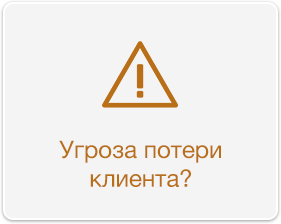
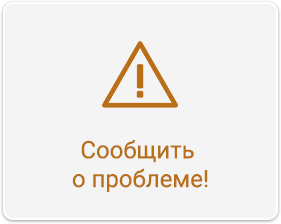
SUPS-369 SUPS-371 crop comment in task, change images for buttons

Changed region(s): [[0.1993, 0.625, 0.7972, 0.875]]

diff --git a/device/app/Script/Events/CheckList.js b/device/app/Script/Events/CheckList.js
@@ -1,3 +1,14 @@
+function OnLoad() {
+    Dialog.Debug(CanForward($.param1));
+    CanForward($.param1);
+}
+
+function DoNext(param) {
+  if (CanForward($.param1)){
+    Workflow.Action("Total",param);
+  }
+}
+
 function GetCheckList(event){
     var q = new Query("SELECT CA. Description AS Desc, " +
                       "ETDP.Name AS AType, " +
@@ -26,8 +37,12 @@ function CanForward(event){
   var cnt =  q.ExecuteCount();
 
   if (cnt == 0) {
+    $.nextButton.CssClass = "forward_orange";
+    $.nextButton.Refresh();
     return true;
   } else {
+    $.nextButton.CssClass = "forward_gray";
+    $.nextButton.Refresh();
     return false;
   }
 }
@@ -147,7 +162,7 @@ function SetForAllActions(event, act, result, index) {
         }
       }
 
-      $.nextButton.Visible = CanForward(event);
+     CanForward(event);
   }
 
 }
@@ -287,19 +302,13 @@ function SnapshotActionsHandler(state, args){
 		}
 }
 
-function DeleteSnapShot(event, eq, pictId) {
-	q = new Query("SELECT DEP.Id FROM Document_Event_Photos DEP WHERE DEP.Ref == @event AND DEP.Equipment == @eq AND DEP.UIDPhoto == @pict");
-	q.AddParameter("event", event);
-	q.AddParameter("eq", eq);
-	q.AddParameter("pict", pictId);
-	res = q.ExecuteScalar();
-	DB.Delete(res);
-
+function DeleteSnapShot(event, act, pictId) {
+  SetForAllActions(event, act, "");
 	if (FileSystem.Exists(GetPrivateImagePath(event, pictId, ".jpg"))){
 	 	FileSystem.Delete(GetPrivateImagePath(event, pictId, ".jpg"));
 	}
 
-	Workflow.Refresh([$.task]);
+	Workflow.Refresh([$.param1]);
 }
 
 function getStatusStyle(status){

diff --git a/device/app/Style/Default/CheckList.css b/device/app/Style/Default/CheckList.css
@@ -32,3 +32,25 @@
   dock-align: left;
   background-color: #ffc0cb;
 }
+
+.forward_gray {
+      width: 100%;
+      height: 100%;
+      margin-right: 1mm;
+      padding-top: 26%;
+      text-align: right;
+      dock-align: right;
+      color: #8e8e93;
+      font: 39.5% arial;
+  }
+
+  .forward_orange {
+        width: 100%;
+        height: 100%;
+        margin-right: 1mm;
+        padding-top: 26%;
+        text-align: right;
+        dock-align: right;
+        color: #b96f18;
+        font: 39.5% arial;
+    }

diff --git a/device/app/Style/Default/task.css b/device/app/Style/Default/task.css
@@ -52,3 +52,10 @@ dock-align: right;
   dock-align: left;
   background-color: #ffc0cb;
 }
+
+.memo_block {
+    height: 24sp;
+}
+  .memo_block vl MemoEdit{
+    font: 22% Arial;
+  }
